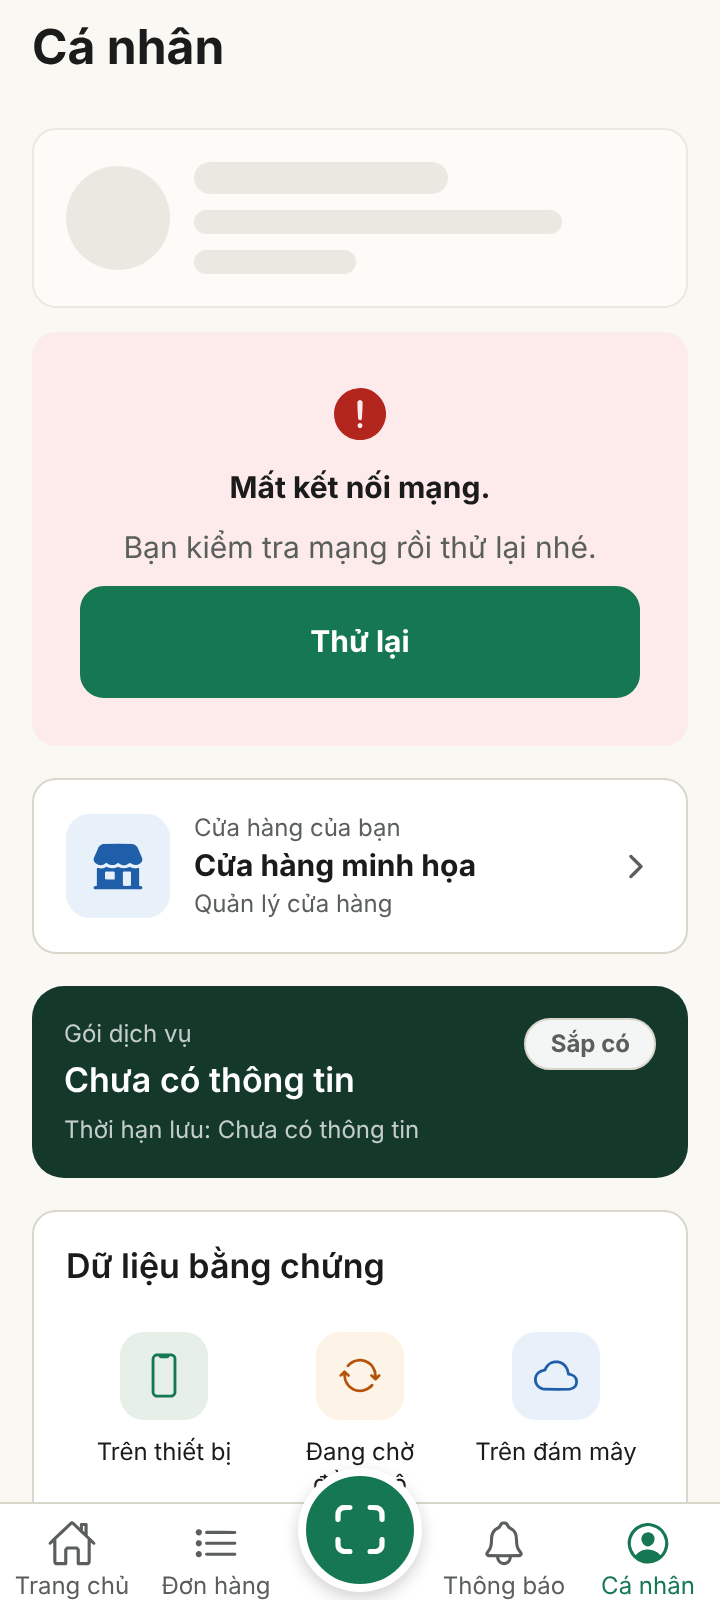
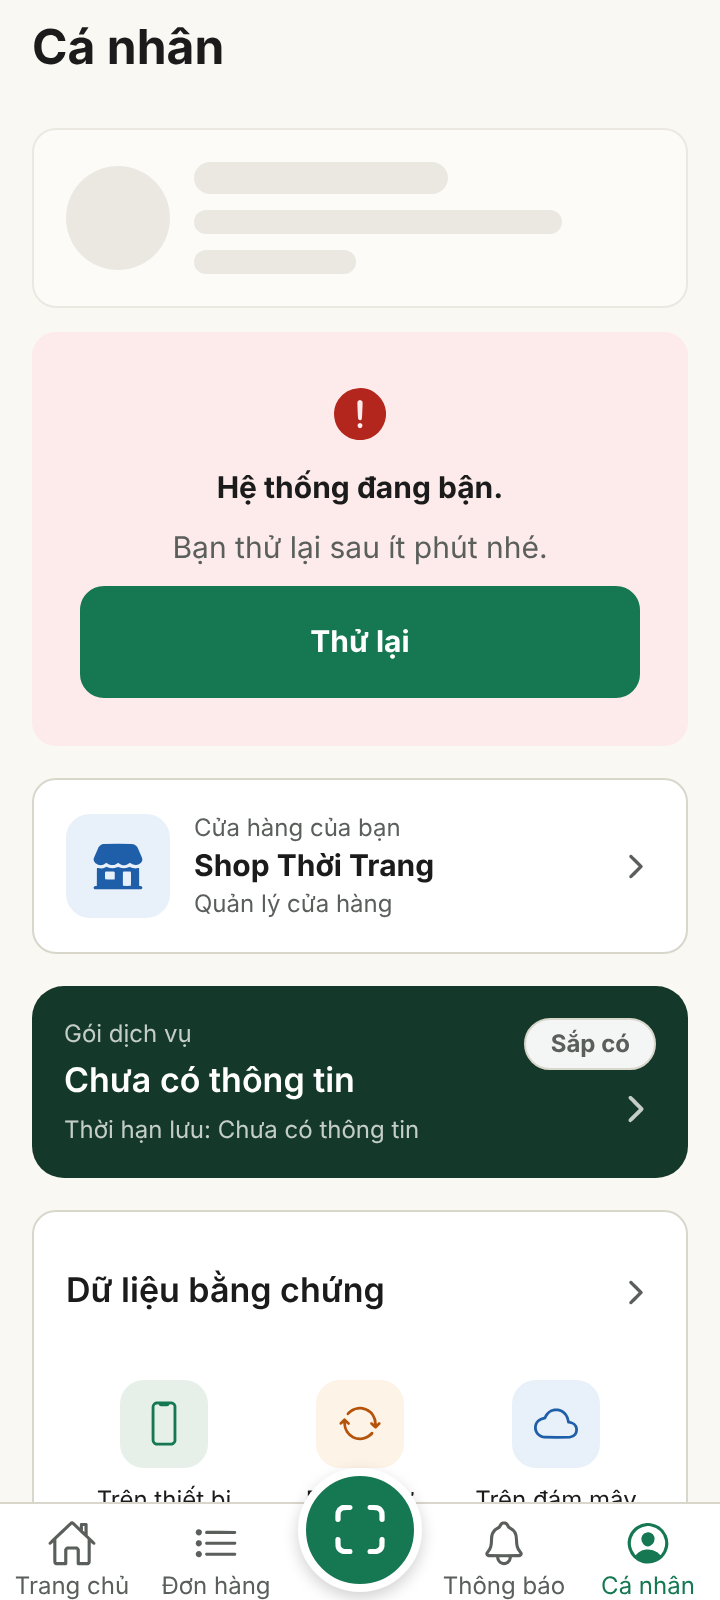
docs(personal): ảnh PR-F khung 11, 12 và chụp lại ảnh PR-E, PR-B còn thiếu
Claude-Session: https://claude.ai/code/session_01EqYbDcnm1zXTanGNx6inm6

diff --git a/docs/assets/screens/personal-tab-v3/README.md b/docs/assets/screens/personal-tab-v3/README.md
@@ -7,7 +7,7 @@
 | `pr-a-components-390x844.png` | Năm khung 390x844 ghép ngang: (1-3) cuộn khung thử: `HeroCard` kèm huy hiệu, sáu tông `IconTile`, ba `MetricTile` xếp dọc + một dạng hàng, sáu `StatusCard` (đang tải 70%, đã xác minh, lưu trên máy, đám mây, sắp hết hạn, lỗi), hai `Checkbox` (chọn, viền đỏ), `TextField` có bộ đếm và ô nhiều dòng, `ErrorState variant="card"`, `EmptyState` có/không nút; (4) `ConfirmDialog` có icon, hai nút dọc; (5) `ConfirmDialog` có icon, hai nút cạnh nhau |
 | `pr-a-board-reference-crops.png` | Khung tương ứng cắt từ board 07 (phóng 2x): 4a, 7b, 1c, 1d và dải trạng thái khung 21 |
 
-**Ảnh chưa chụp lại sau đợt sửa review:** không có trình duyệt/khung thử trong môi trường này. Hai thay đổi nhìn thấy được (nếu có): glyph `cloud`/`document`/`person`/`play`/`warning-solid` đã bỏ khỏi bảng icon (ô `MetricTile` trong ảnh có thể đang dùng icon này), và `HeroCard` thêm `badgeLabel` (chỉ ảnh hưởng trợ năng, không đổi hình). Cần chụp lại khi dựng màn dùng `MetricTile` (PR-F).
+**Ảnh `pr-b-1b..1e` đã chụp lại ở PR-F** (khung chờ/lỗi/ngoại tuyến/chưa có họ tên theo mã hiện tại). Bản sao ngoài repo có thêm tham số tạm `?state=loading|error|offline|noname` (cổng giả và `useIsOffline`), KHÔNG commit.
 
 ## Khác biệt so với board (ghi trung thực)
 
@@ -151,4 +151,32 @@
 | Trạng thái | đạt | đạt | đạt | chưa có dữ liệu gói nên chưa dựng hết hạn/sắp hết hạn |
 | Chuỗi chữ | lệch có chủ đích | lệch có chủ đích | lệch | không "Gói tiêu chuẩn", "Đang hoạt động", "Hỗ trợ 24/7", "Xem tất cả"; xem mục 6.5 của plan |
 
-**Ảnh `pr-e-8*`, `pr-e-9*` chưa chụp lại sau review:** tiêu đề mục "Quyền lợi" / "Quyền lợi chi tiết" đã đổi thành "Chính sách lưu trữ dự kiến" (Q-21w) và nút "Nâng cấp gói" thêm gợi ý trợ năng (không đổi hình). Môi trường này không có trình duyệt để render lại; ảnh hiện còn tiêu đề cũ. Cần chụp lại khi có Chromium.
+**Ảnh `pr-e-8*`, `pr-e-9*` đã chụp lại ở PR-F** (tiêu đề "Chính sách lưu trữ dự kiến").
+
+# Ảnh đối chiếu PR-F: Dữ liệu bằng chứng, Thời hạn lưu (khung 11, 12) và dải trạng thái (khung 21)
+
+**Lưu ý trung thực:** ảnh render **bản web** (react-native-web trong Chromium) của màn thật trên **cổng giả**, **không phải ảnh chụp trên iOS/Android thật**; 320x568, 360x800, 390x844 (hệ số 2) và chữ lớn 1.6 lần ở 320x568 (bản sao ngoài repo nhân cỡ chữ của `Text`; icon không phóng theo). Hai màn là nội dung tĩnh (chưa có tệp bằng chứng, chưa có dữ liệu gói). Bản sao ngoài repo (không thêm phụ thuộc) có thay đổi tạm KHÔNG commit: `?named=1`, `?fs=1.6`, `?state=...`. Khung 21 KHÔNG có ảnh app: không có màn tương ứng (xem plan mục 6.6).
+
+| Ảnh | Nội dung |
+| --- | --- |
+| `pr-f-11-evidence-data-{320x568,360x800,390x844}.png` | Khung 11 Dữ liệu bằng chứng |
+| `pr-f-12-retention-*.png` | Khung 12 Thời hạn lưu |
+| `pr-f-{11-evidence-data,12-retention}-largetext-320x568.png` | Chữ lớn (1.6 lần) |
+| `pr-f-1a-main-with-evidence-link-*.png` | Màn Cá nhân: tiêu đề khối "Dữ liệu bằng chứng" có "›" |
+| `pr-f-board-reference-11-12-21.png`, `pr-f-board-reference-21-strip.png` | Khung 11, 12 và dải khung 21 cắt từ board 07 |
+| `pr-f-compare-board-vs-app-390.png` | Hàng trên board, hàng dưới app 390x844 |
+
+## Checklist "giống design"
+
+| Hạng mục | 11 | 12 | Ghi chú lệch |
+| --- | --- | --- | --- |
+| Bố cục và thứ tự khối | gần | đạt | khung 11 thêm đoạn giải thích ba mục và hàng "Thời hạn lưu" (lối vào khung 12) |
+| Thứ bậc chữ | đạt | đạt | |
+| Màu thẻ/nền | gần | gần | khung 11: ba hàng trong một nhóm có đường kẻ (board: hàng có đường kẻ); khung 12: thẻ ghi chú nền trắng viền, icon xanh dương (không có tông thẻ xanh dương nhạt) |
+| Icon | gần | gần | chấm cam đặc của board thay bằng ô icon tông cảnh báo; icon từng hàng chọn theo nghĩa |
+| Nút | đạt | - | "Xem trung tâm đồng bộ" |
+| Header | đạt | đạt | khung 11 đúng "Dữ liệu bằng chứng" (board đặt tiêu đề khung "Quản lý dữ liệu bằng chứng") |
+| Thanh tab | ẩn | ẩn | route con `hideTabBar` |
+| Chữ lớn | đạt | đạt | hàng thời hạn xuống dòng, giá trị rớt xuống dưới nhãn |
+| Chuỗi chữ | lệch có chủ đích | lệch có chủ đích | "Chưa có số liệu"/"Chưa có thông tin" thay số; không "Gói tiêu chuẩn"; ghi chú khung 12 đổi câu (D19) |
+
